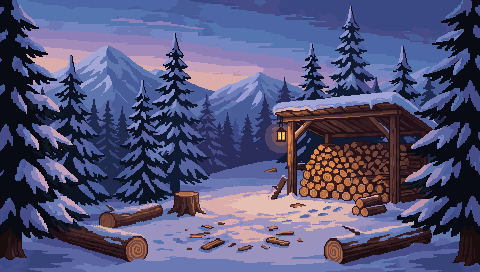
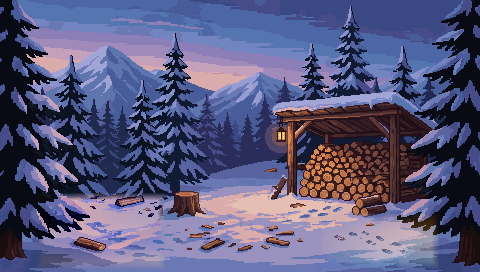
Title menu with Continue, New journey and Settings; PixelLab wooden UI skin; mobile safe-area fit and screen-size setting; Waffles barks lying down; woodlot proportions; Mochi's couch spots
Claude-Session: https://claude.ai/code/session_01MJHAbDc8GE5C3zMaFTW5Js

Changed region(s): [[0.0625, 0.7059, 0.3438, 1.0], [0.6562, 0.7941, 0.9062, 1.0], [0.75, 0.7647, 0.7812, 0.7941]]

diff --git a/src/scenes/title.js b/src/scenes/title.js
@@ -3,9 +3,12 @@
 
 (function () {
   const smoke = [];
-  const WINDOWS = [
-    { x: 188, y: 183, r: 22 }, { x: 275, y: 183, r: 22 }, { x: 230, y: 118, r: 16 }, { x: 354, y: 183, r: 18 }, { x: 231, y: 180, r: 10 },
-  ];
+  const WINDOWS = [{ x: 186, y: 175, r: 20 }, { x: 277, y: 176, r: 20 }, { x: 230, y: 118, r: 16 }, { x: 356, y: 183, r: 18 }, { x: 256, y: 171, r: 9 }];
+  let menu = 'main', confirmT = 0;
+  // where a saved journey picks up again
+  const RESUME = { cabin: 'cabin', woodlot: 'woodlot', lake: 'lake', forest: 'forest', summit: 'summit', trail: 'map', chapel: 'chapel' };
+  const hasJourney = () => !!SE.hadSave && (SE.save.day > 1 || SE.save.distance > 0 || SE.save.cooked > 0 || SE.save.logs > 0 || SE.fishCount() > 0 || SE.save.prayers > 0);
+  function start(scene, params) { SE.audio.unlock(); SE.audio.sfx('door'); menu = 'main'; SE.go(scene, params || {}); }
 
   // Chimney smoke: PixelLab smoke puffs that rise, drift off with the wind, swell a little and fade.
   // Pixel puffs are drawn at 1x (no blurry scaling); `scale` only slows and thins them for far views.
@@ -60,18 +63,66 @@
 
       // title card
       const bob = Math.sin(SE.time * 1.2) * 1.5;
-      ctx.fillStyle = 'rgba(18,14,28,0.35)';
-      ctx.fillRect(0, 0, SE.W, 64);
+      const tg = ctx.createLinearGradient(0, 0, 0, 72);
+      tg.addColorStop(0, 'rgba(18,14,28,0.45)'); tg.addColorStop(1, 'rgba(18,14,28,0)');
+      ctx.fillStyle = tg; ctx.fillRect(0, 0, SE.W, 72);
       SE.text('Snowy Escape', SE.W / 2, 14 + bob, { align: 'center', size: 26, color: '#fff3dc', bold: true, shadowColor: 'rgba(40,30,70,0.9)' });
       SE.text('a cozy little place to rest your mind', SE.W / 2, 44 + bob, { align: 'center', size: 8, color: '#cfd8ff' });
 
-      const has = SE.save.distance > 0 || SE.save.cooked > 0 || SE.fishCount() > 0;
-      if (SE.button(SE.W / 2 - 50, 222, 100, 20, has ? 'Continue' : 'Begin', { size: 10 })) {
-        SE.audio.unlock();
-        SE.audio.sfx('door');
-        SE.go('cabin');
-      }
-      SE.text('click to start · music is generated live', SE.W / 2, 248, { align: 'center', size: 6, color: 'rgba(230,230,255,0.7)' });
+      const a = 1;
+      if (menu === 'main') {
+        const items = [];
+        if (hasJourney()) items.push([`Continue · day ${SE.save.day}`, () => start(RESUME[SE.save.location] || 'cabin', { inDoor: true })]);
+        items.push([hasJourney() ? 'New journey' : 'Begin', () => { if (hasJourney()) { menu = 'confirm'; confirmT = 0; } else start('cabin', { inDoor: true }); }]);
+        items.push(['Settings', () => { menu = 'settings'; }]);
+        let y = 196 - (items.length - 2) * 12;
+        for (const [label, cb] of items) { if (SE.button(SE.W / 2 - 62, y, 124, 20, label, { size: 9, alpha: a })) cb(); y += 24; }
+        SE.text('your journey is saved on this device · music is generated live', SE.W / 2, 254, { align: 'center', size: 6, color: 'rgba(230,230,255,0.7)' });
+      } else if (menu === 'confirm') {
+        confirmT += dt;
+        SE.panel(SE.W / 2 - 110, 150, 220, 84, { fill: 'rgba(48,40,70,0.96)' });
+        SE.text('Start a new journey?', SE.W / 2, 160, { align: 'center', size: 10, color: '#ffe6b8' });
+        SE.text(`Day ${SE.save.day}, your photos, fish and notes will be gone.`, SE.W / 2, 176, { align: 'center', size: 7, color: '#dfe8ff' });
+        if (SE.button(SE.W / 2 - 100, 202, 96, 20, 'Keep my journey', { size: 8 })) menu = 'main';
+        if (confirmT > 0.4 && SE.button(SE.W / 2 + 4, 202, 96, 20, 'Start over', { size: 8 })) {
+          const keep = SE.save.settings;
+          SE.save = SE.defaultSave(); SE.save.settings = Object.assign(SE.save.settings, keep, { watch: false });
+          SE.persist();
+          start('cabin', { inDoor: true });
+        }
+      } else drawSettings(ctx);
     },
   });
+
+  // ------------------------------------------------------------ settings (also reachable in game)
+  SE.drawSettingsPanel = drawSettings;
+  function drawSettings(ctx) {
+    const s = SE.save.settings, px = SE.W / 2 - 150, py = 70, pw = 300, ph = 170;
+    SE.panel(px, py, pw, ph, { fill: 'rgba(48,40,70,0.97)' });
+    SE.text('Settings', px + 12, py + 8, { size: 10, color: '#ffe6b8' });
+    // sound
+    [['Music', 'music'], ['Ambience', 'ambience'], ['Effects', 'sfx']].forEach(([label, key], i) => {
+      const y = py + 34 + i * 20;
+      SE.text(label, px + 14, y - 4, { size: 7 });
+      const v = SE.slider('set-' + key, px + 62, y, 80, s[key]);
+      if (v !== s[key]) { s[key] = v; SE.audio.applyVolumes(); SE.persist(); }
+    });
+    // screen size: on a phone, leave room if the browser covers the edges
+    SE.text('Screen size', px + 14, py + 94, { size: 7 });
+    const sv = SE.slider('set-screen', px + 62, py + 98, 80, ((s.screen || 1) - 0.6) / 0.4);
+    const ns = Math.round((0.6 + sv * 0.4) * 100) / 100;
+    if (ns !== (s.screen || 1)) { s.screen = ns; SE.persist(); SE.resize(); }
+    SE.text(`${Math.round((s.screen || 1) * 100)}%`, px + 148, py + 94, { size: 7, color: '#b9b1d6' });
+    // weather & time of day
+    SE.text('Weather', px + 172, py + 26, { size: 7, color: '#dfe8ff' });
+    [['auto', 'Nature decides'], ['sunny', 'Sunny'], ['calm', 'Gentle snow'], ['storm', 'Snowstorm']].forEach(([k, label], i) => {
+      if (SE.button(px + 172, py + 36 + i * 15, 56, 13, label, { active: s.weather === k, size: 6 })) { s.weather = k; if (k !== 'auto') SE.weather.set(k); SE.persist(); }
+    });
+    SE.text('Time', px + 234, py + 26, { size: 7, color: '#dfe8ff' });
+    [['cycle', 'Day cycle'], ['live', 'My clock'], ['day', 'Day'], ['night', 'Night']].forEach(([k, label], i) => {
+      if (SE.button(px + 234, py + 36 + i * 15, 56, 13, label, { active: (s.time || 'cycle') === k, size: 6 })) { s.time = k; SE.persist(); }
+    });
+    if (SE.button(px + 14, py + ph - 26, 120, 18, s.hideUi ? 'UI fades when idle: on' : 'UI fades when idle: off', { size: 7 })) { s.hideUi = !s.hideUi; SE.persist(); }
+    if (SE.button(px + pw - 74, py + ph - 26, 62, 18, 'Done', { size: 8, active: true })) menu = 'main';
+  }
 })();

diff --git a/src/engine.js b/src/engine.js
@@ -37,8 +37,18 @@ SE.ctx = SE.canvas.getContext('2d');
 
 SE.resize = function () {
   const dpr = window.devicePixelRatio || 1;
-  const de = document.documentElement;
-  const vw = Math.min(window.innerWidth, de.clientWidth || window.innerWidth), vh = Math.min(window.innerHeight, de.clientHeight || window.innerHeight);
+  // The visible area: on phones the browser bars (and the notch / home bar) can cover the edges of
+  // the window, so take the smallest honest measure and keep clear of the safe-area insets.
+  const de = document.documentElement, vv = window.visualViewport;
+  let vw = Math.min(window.innerWidth, de.clientWidth || window.innerWidth, vv ? vv.width : 1e9);
+  let vh = Math.min(window.innerHeight, de.clientHeight || window.innerHeight, vv ? vv.height : 1e9);
+  const probe = SE._safe || (SE._safe = (() => { const d = document.createElement('div'); d.style.cssText = 'position:fixed;left:0;top:0;visibility:hidden;padding:env(safe-area-inset-top) env(safe-area-inset-right) env(safe-area-inset-bottom) env(safe-area-inset-left)'; document.body.appendChild(d); return d; })());
+  const cs = getComputedStyle(probe);
+  vw -= (parseFloat(cs.paddingLeft) || 0) + (parseFloat(cs.paddingRight) || 0);
+  vh -= (parseFloat(cs.paddingTop) || 0) + (parseFloat(cs.paddingBottom) || 0);
+  // the player's own "Screen size" setting shrinks it further if anything is still cut off
+  const pref = SE.save && SE.save.settings && SE.save.settings.screen ? SE.save.settings.screen : 1;
+  vw *= pref; vh *= pref;
   const fit = Math.min(vw / SE.W, vh / SE.H);
   // Prefer whole-number device-pixel scaling for crisp pixels, unless it wastes a lot of screen.
   let s = Math.floor(fit * dpr);
@@ -209,6 +219,7 @@ SE.load = function () {
     const raw = localStorage.getItem('snowy-escape-save');
     if (raw) {
       const data = JSON.parse(raw);
+      SE.hadSave = true;
       const d = SE.defaultSave();
       SE.save = Object.assign(d, data, { settings: Object.assign(d.settings, data.settings || {}) });
       return;
@@ -281,9 +292,38 @@ SE.wrap = function (str, maxW, size = 8) {
 };
 
 // Soft pixel panel (rounded by chopping corners).
+// The wooden UI skin (ui/kit.png, from the PixelLab UI sheet): a snow-capped walnut plank with gold
+// rivets, 41x18, drawn as a nine-slice. Rows: 0 normal, 1 hover, 2 active (honey), 3 dim.
+const KIT = { w: 41, h: 18, l: 8, r: 8, t: 6, b: 6 };
+SE.drawSkin = function (ctx, row, x, y, w, h, alpha) {
+  const img = SE.img('ui/kit');
+  if (!img || w < 14 || h < 12) return false;
+  const sy = row * KIT.h, mw = KIT.w - KIT.l - KIT.r, mh = KIT.h - KIT.t - KIT.b;
+  ctx.save();
+  if (alpha != null) ctx.globalAlpha = alpha;
+  ctx.imageSmoothingEnabled = false;
+  // the top and bottom rows shrink together on short buttons
+  const t = Math.min(KIT.t, Math.floor(h / 2)), b = Math.min(KIT.b, h - t);
+  const cols = [[0, KIT.l, x, KIT.l]];
+  for (let cx = x + KIT.l; cx < x + w - KIT.r; cx += mw) cols.push([KIT.l, Math.min(mw, x + w - KIT.r - cx), cx, Math.min(mw, x + w - KIT.r - cx)]);
+  cols.push([KIT.w - KIT.r, KIT.r, x + w - KIT.r, KIT.r]);
+  for (const [sx, sw, dx, dw] of cols) {
+    ctx.drawImage(img, sx, sy, sw, t, dx, y, dw, t);
+    for (let cy = y + t; cy < y + h - b; cy += mh) {
+      const hh = Math.min(mh, y + h - b - cy);
+      ctx.drawImage(img, sx, sy + KIT.t, sw, hh, dx, cy, dw, hh);
+    }
+    ctx.drawImage(img, sx, sy + KIT.h - b, sw, b, dx, y + h - b, dw, b);
+  }
+  ctx.restore();
+  return true;
+};
+// the standard dark-violet panels are drawn as wood; panels with their own colour keep it
+const PLAIN = /^rgba\((48,40,70|54,46,78|72,52,96|92,80,128),/;
 SE.panel = function (x, y, w, h, opts = {}) {
   const ctx = SE.ctx;
   x = Math.round(x); y = Math.round(y); w = Math.round(w); h = Math.round(h);
+  if (!opts.plain && (!opts.fill || PLAIN.test(opts.fill)) && SE.drawSkin(ctx, opts.skin || 0, x, y, w, h, opts.alpha)) return;
   ctx.save();
   if (opts.alpha != null) ctx.globalAlpha = opts.alpha;
   ctx.fillStyle = opts.border || 'rgba(26,22,40,0.92)';
@@ -303,10 +343,13 @@ SE.button = function (x, y, w, h, label, opts = {}) {
   if (hover) { SE.cursor = 'pointer'; SE._hot = true; }
   const pressed = hover && SE.mouse.down;
   const active = opts.active;
-  SE.panel(x, y + (pressed ? 1 : 0), w, h, {
+  const skin = active ? 2 : hover ? 1 : opts.fill ? 3 : 0;
+  if (!SE.drawSkin(SE.ctx, skin, x, y + (pressed ? 1 : 0), w, h, opts.alpha)) SE.panel(x, y + (pressed ? 1 : 0), w, h, {
     fill: active ? 'rgba(232,170,96,0.95)' : hover ? 'rgba(92,80,128,0.95)' : opts.fill || 'rgba(54,46,78,0.88)',
-    alpha: opts.alpha,
+    alpha: opts.alpha, plain: true,
   });
+  const skinned = !!SE.img('ui/kit') && w >= 14 && h >= 12;
+  y += skinned ? 1 : 0; // the snow cap sits on top: centre the label on the plank
   if (opts.icon) {
     SE.ctx.save();
     SE.ctx.globalAlpha = opts.alpha == null ? 1 : opts.alpha;

diff --git a/src/scenes/woodlot.js b/src/scenes/woodlot.js
@@ -14,7 +14,7 @@
     enter() {
       SE.save.location = 'woodlot';
       SE.persist();
-      s = { t: 0, chips: [], meter: 0, chopAnim: 0, auto: 0, splits: 0, busy: false, cheer: true, cheerT: SE.rand(10, 20) };
+      s = { t: 0, chips: [], meter: 0, chopAnim: 0, auto: 0, splits: 0, busy: false };
       SE.audio.setMusic('outdoors');
       SE.moment('chop'); // the axe biting into a log: a still and the sound
     },
@@ -51,15 +51,10 @@
       SE.drawAnim('chop', CHOP.x - 40, CHOP.y - SE.animSize('chop').h, 0, { frame });
       SE.headphones(ctx, CHOP.x - 40 + 32, CHOP.y - SE.animSize('chop').h + 8);
     }
-    // Waffles: cheering you on, or lying in the snow watching
-    const dA = SE.dogCheer();
-    if (s.cheer && SE.anims[dA]) {
-      const d = SE.animSize(dA), hop = Math.abs(Math.sin(s.t * 6)) * 2;
-      SE.drawAnim(dA, DOG.x, DOG.y - d.h - hop, s.t * 1.6, { pingpong: dA === 'dog_happy', flip: true });
-      if (Math.random() < dt * 0.6) SE.spawnFloater(DOG.x + d.w / 2, DOG.y - d.h, Math.random() < 0.5 ? 'note' : 'heart');
-    } else SE.drawDogRest(DOG.x + 20, DOG.y + 4, { flip: true });
-    s.cheerT -= dt;
-    if (s.cheerT <= 0) { s.cheer = !s.cheer; s.cheerT = s.cheer ? SE.rand(12, 22) : SE.rand(15, 30); }
+    // Waffles lies in the snow watching; a good split gets a bark from where he lies, then a grin
+    s.woof = (s.woof == null ? -1 : s.woof) + (s.woof >= 0 ? dt : 0);
+    if (!SE.drawDogLieCheer(DOG.x + 20, DOG.y + 4, s.woof, { flip: true })) { s.woof = -1; SE.drawDogRest(DOG.x + 20, DOG.y + 4, { flip: true }); }
+    else if (s.woof > 0.3 && s.woof < 0.3 + dt) SE.spawnFloater(DOG.x + 34, DOG.y - 30, 'heart');
   }
 
   // stop the swing in the sweet spot
@@ -90,7 +85,7 @@
     SE.persist();
     s.splits++;
     SE.toast(perfect ? 'Clean split! +2 firewood' : '+1 firewood', '#ffe6b8');
-    if (s.cheer && Math.random() < 0.5) SE.audio.sfx('woof');
+    if (!(s.woof >= 0)) { s.woof = 0; setTimeout(() => SE.audio.sfx('woof'), 160); }
     if (s.splits >= ROUND) finishRound();
   }
   // the round is done: stack it, carry an armful in, and the fire gets a fresh log

diff --git a/src/actors.js b/src/actors.js
@@ -203,7 +203,18 @@
   };
 
   // Waffles celebrates with you: while a success banner is up he barks and grins.
-  SE.dogCheer = () => (SE.anims.dog_bark && SE.celebration && SE.celebration.t < 2.6 ? 'dog_bark' : 'dog_happy');
+  SE.dogCheer = () => (SE.anims.dog_lie_cheer ? 'dog_lie_cheer' : SE.anims.dog_bark && SE.celebration && SE.celebration.t < 2.6 ? 'dog_bark' : 'dog_happy');
+  // Waffles stays lying where he is, lifts his head for a bark or two and then grins with his tongue
+  // out. `t` is seconds since it started; returns false once it has played through (then he rests).
+  SE.drawDogLieCheer = function (x, feetY, t, opts = {}) {
+    const a = SE.anims.dog_lie_cheer;
+    if (!a || t < 0) return false;
+    const frame = Math.floor(t * a.fps);
+    if (frame >= a.frames && !opts.loop) return false;
+    const sz = SE.animSize('dog_lie_cheer');
+    SE.drawAnim('dog_lie_cheer', x, feetY - sz.h, 0, { frame: frame % a.frames, flip: opts.flip });
+    return true;
+  };
 
   // The fish once it is cut: the same sprite in pieces, a small gap at each cut (fractions 0..1).
   SE.drawFishPieces = function (ctx, species, cx, cy, scale, cook, cuts, gap = 2) {

diff --git a/src/scenes/cabin.js b/src/scenes/cabin.js
@@ -12,8 +12,9 @@
     couch: { x: 250, y: 197 }, // traveler sitting on the couch
   };
   // where Mochi can be in the living room, and the jumps between those spots
-  const CAT_SURF = { sill: [266, 340, 134], couchBack: [236, 350, 142], couch: [212, 365, 166], coffee: [278, 292, 200], shelf: [198, 234, 68], mat: [404, 428, 240], rug: [200, 300, 256] };
-  const CAT_LINKS = [['rug', 'couch'], ['couch', 'couchBack'], ['couchBack', 'sill'], ['couch', 'coffee'], ['coffee', 'rug'], ['rug', 'mat'], ['couchBack', 'shelf']];
+  // (cat spots, not the middle of the couch: the armrests, the corner of the couch back, the sill)
+  const CAT_SURF = { sill: [262, 336, 134], armL: [203, 209, 164], armR: [365, 371, 167], couchBack: [222, 232, 142], coffee: [318, 326, 200], shelf: [198, 234, 68], mat: [404, 428, 240], rug: [200, 300, 256] };
+  const CAT_LINKS = [['rug', 'armL'], ['armL', 'couchBack'], ['couchBack', 'sill'], ['couchBack', 'shelf'], ['rug', 'armR'], ['armR', 'sill'], ['rug', 'coffee'], ['rug', 'mat']];
   let mochi = null;
   let mode = 'room', sip = 0, sips = 0, drink = 'cocoa', steam = [], idleHint = 0;
 

diff --git a/src/main.js b/src/main.js
@@ -14,7 +14,7 @@
     'cut/stack', 'cut/carry_in', 'cut/bible_read', 'cut/music', 'cut/sleep', 'cut/pocket',
     'cut/pet_dog1', 'cut/pet_dog2', 'cut/pet_dog3', 'cut/pet_cat1', 'cut/pet_cat2', 'cut/pet_cat3',
     'lake_hands', 'props/woodpile', 'snow/heap_big', 'snow/heap_small', 'smoke/p0', 'smoke/p1', 'smoke/p2', 'smoke/p3', 'smoke/p4',
-    'world_ground', 'map/pine', 'map/spruce', 'map/cabin_td', 'map/mountain_td', 'map/chop_td', 'map/fishing_td', 'map/chapel_td', 'bg_chapel', 'bg_woodlot', 'bg_bedroom', 'ui/notebook', 'lit/bg_cabin', 'lit/cabin_td', 'lit/chapel_td', 'bg_forest_dim']
+    'world_ground', 'map/pine', 'map/spruce', 'map/cabin_td', 'map/mountain_td', 'map/chop_td', 'map/fishing_td', 'map/chapel_td', 'bg_chapel', 'bg_woodlot', 'bg_bedroom', 'ui/notebook', 'ui/kit', 'lit/bg_cabin', 'lit/cabin_td', 'lit/chapel_td', 'bg_forest_dim']
     .concat(M.images, Object.keys(M.anims))
     // each cutscene still in its other weathers and times of day (src/moments.js)
     .concat(...Object.entries(SE.CUT_VARIANTS || {}).map(([n, vs]) => vs.map((v) => `cut/${n}_${v}`)))

diff --git a/src/scenes/lake.js b/src/scenes/lake.js
@@ -90,9 +90,10 @@
       } else SE.drawActorFallback(ctx, POS.man.x + 20, POS.man.y - 40, '#a0522d');
       // Waffles keeps you company: resting, then sitting up when a fish bites
       if (s.state === 'nibble' || s.mini || s.card || s.land || s.miss) {
-        const dA = SE.dogCheer();
-        if (SE.anims[dA]) { const sz = SE.animSize(dA); SE.drawAnim(dA, POS.dog.x + 10, POS.dog.y - sz.h, s.t * 1.6, { pingpong: dA === 'dog_happy' }); }
-      } else SE.drawDogRest(POS.dog.x - 16 + SE.weather.shiver(1), POS.dog.y + 2, { seed: 2 });
+        // he stays lying beside you on the ice: a bark, then a big grin
+        s.dogT = (s.dogT || 0) + SE.dt;
+        if (!SE.drawDogLieCheer(POS.dog.x - 16, POS.dog.y + 2, s.dogT % 3.2, {})) SE.drawDogRest(POS.dog.x - 16, POS.dog.y + 2, { seed: 2 });
+      } else { s.dogT = 0; SE.drawDogRest(POS.dog.x - 16 + SE.weather.shiver(1), POS.dog.y + 2, { seed: 2 }); }
 
       // night and weather light fall on everyone in the scene, not just the background
       SE.weather.tint(ctx);

diff --git a/src/hud.js b/src/hud.js
@@ -155,7 +155,11 @@
         const v = SE.slider('vol-' + key, px + 72, y, 110, s[key]);
         if (v !== s[key]) { s[key] = v; SE.audio.applyVolumes(); SE.persist(); }
       });
-      SE.text('Synthesized live — drop mp3s in assets/audio to swap.', px + pw / 2, py + ph - 16, { align: 'center', size: 6, color: '#b9b1d6' });
+      // on phones: shrink the game if the browser covers its edges
+      SE.text('Screen', px + 14, py + 108, { size: 8 });
+      const sv = SE.slider('vol-screen', px + 72, py + 112, 110, ((s.screen || 1) - 0.6) / 0.4);
+      const ns = Math.round((0.6 + sv * 0.4) * 100) / 100;
+      if (ns !== (s.screen || 1)) { s.screen = ns; SE.persist(); SE.resize(); }
     } else if (H.panel === 'weather') {
       SE.text('Weather', px + 12, py + 8, { size: 10, color: '#ffe6b8' });
       const opts = [['auto', 'Let nature decide'], ['sunny', 'Sunny spell'], ['calm', 'Gentle snow'], ['snowy', 'Heavy snowfall'], ['windy', 'Windy'], ['storm', 'Snowstorm']];

diff --git a/src/manifest.js b/src/manifest.js
@@ -233,6 +233,10 @@ window.SE_MANIFEST = {
   "mochi_loaf_sw": {
    "frames": 9,
    "fps": 5.0
+  },
+  "dog_lie_cheer": {
+   "frames": 10,
+   "fps": 6.0
   }
  }
 };

diff --git a/tools/make_ui_kit.py b/tools/make_ui_kit.py
@@ -1,0 +1,45 @@
+"""Build assets/img/ui/kit.png from the PixelLab UI sheet (create_ui_asset, 512x512).
+
+The sheet is drawn at 4x the game's pixel size, so its wooden START button comes down to a 41x18
+button with a nearest-neighbour downscale. Its lettering is painted over with plain wood, and the
+result is saved in four states (rows): normal, hover, active (honey-gold) and dim.
+Usage: python3 tools/make_ui_kit.py path/to/ui_sheet.png
+"""
+import sys
+from PIL import Image, ImageEnhance
+
+src = Image.open(sys.argv[1]).convert('RGBA')
+b = src.crop((62, 57, 227, 129)).resize((41, 18), Image.NEAREST)
+# paint out the word: tile the plain wood columns 5..7 across the lettering rows
+# (each row gets its most common plain-wood colour, which keeps the horizontal grain)
+from collections import Counter
+for y in range(4, 13):
+    c = Counter(b.getpixel((x, y)) for x in list(range(4, 8)) + list(range(33, 37))).most_common(1)[0][0]
+    for x in range(8, 34):
+        b.putpixel((x, y), c)
+
+# tidy the snow cap: a few grey/brown specks in its lower rows become snow
+snow = b.getpixel((14, 2))
+for y in range(0, 3):
+    for x in range(3, 38):
+        r, g, bb, a = b.getpixel((x, y))
+        if a and not (r > 150 and g > 170 and bb > 190):
+            b.putpixel((x, y), snow)
+
+def tint(img, rgb, k):
+    out = img.copy()
+    px = out.load()
+    for y in range(out.height):
+        for x in range(out.width):
+            r, g, bb, a = px[x, y]
+            if a == 0 or (r > 180 and g > 190 and bb > 200):  # leave the snow cap white
+                continue
+            px[x, y] = (int(r + (rgb[0] - r) * k), int(g + (rgb[1] - g) * k), int(bb + (rgb[2] - bb) * k), a)
+    return out
+
+rows = [b, ImageEnhance.Brightness(b).enhance(1.22), tint(b, (236, 178, 96), 0.55), ImageEnhance.Brightness(b).enhance(0.7)]
+kit = Image.new('RGBA', (41, 18 * len(rows)))
+for i, r in enumerate(rows):
+    kit.paste(r, (0, i * 18))
+kit.save('assets/img/ui/kit.png')
+print('assets/img/ui/kit.png', kit.size)

diff --git a/docs/PROGRESS.md b/docs/PROGRESS.md
@@ -115,3 +115,11 @@
 - Bedroom (src/scenes/bedroom.js): bed, lamp, Mochi on the quilt, Waffles on the rug; "Go to sleep" only at night → cut/sleep with zzz from all three → morning (clock 7:12, new day).
 - Mochi v4 (PixelLab character ef64e189…, smaller): walk SE/SW/NE/NW, sit (SE, mirrored), loaf SE/SW, jump SE/SW. No side views; she loafs on counters, shelves, the couch back and the quilt.
 - PixelLab budget: ~45 generations left until 2026-11-13.
+
+## Round: title menu, settings, wooden UI, mobile fit
+- Title (src/scenes/title.js): "Continue · day N" when a journey is saved (resumes the scene you were in), "New journey" (asks first, then wipes the save) and "Settings" (music / ambience / effects, screen size, weather, time, UI fade). The save is kept in localStorage as before.
+- Mobile: the canvas is sized from visualViewport minus the safe-area insets (notch, home bar), and a "Screen size" slider (title settings and the HUD sound panel) shrinks the whole game if a browser still covers the buttons.
+- UI skin: PixelLab UI sheet (create_ui_asset) → tools/make_ui_kit.py → assets/img/ui/kit.png, a snow-capped walnut plank with gold rivets in four states (normal, hover, honey-gold active, dim). SE.button and the standard SE.panel draw it as a nine-slice; panels with their own colour keep the flat style.
+- Woodlot: the oversized felled trunks in front were inpainted away (snow, a couple of small split logs) so the chopper is in proportion with the clearing. Waffles stays lying in the snow and after every good split barks from where he lies and grins (dog_lie_cheer); the lake uses the same lying cheer when a fish bites.
+- Cabin: Mochi no longer sits in the middle of the couch. Her spots are the two armrests, the corner of the couch back, the window sill, the bookshelf top, the coffee table, the rug and the doormat.
+- PixelLab budget: 119 generations left until 2026-11-13.
